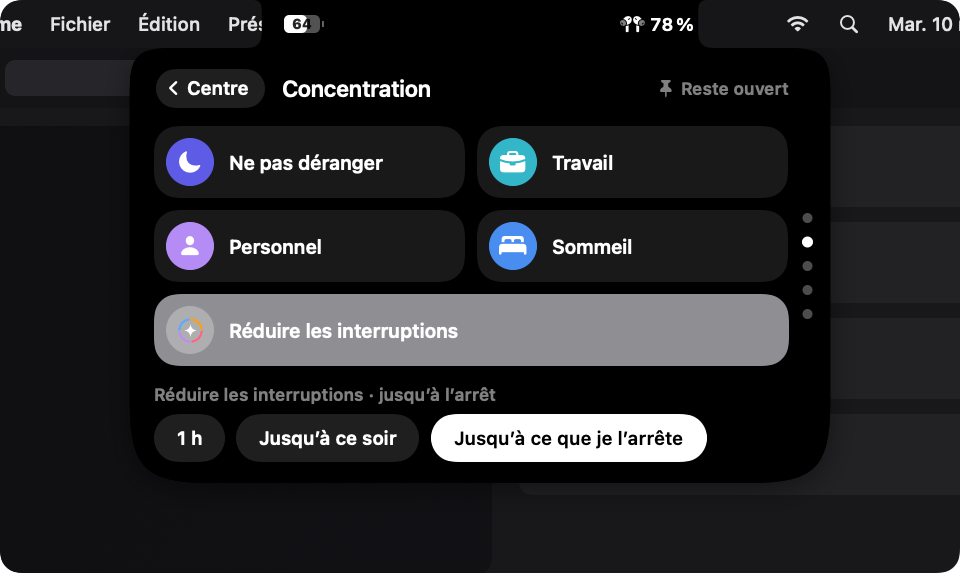
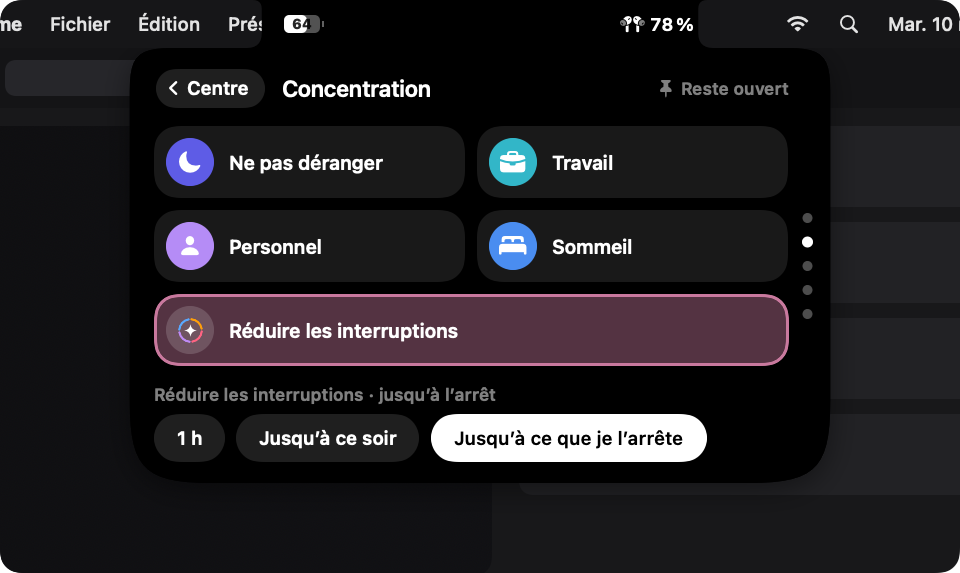
Concentration : le même style de sélection pour les cinq modes (Réduire n'est plus une plaque grise)
- « Réduire les interruptions » prend une teinte sobre tirée du rose de son icône (0xC9799E), lisible sur le noir, distincte du violet
  de Personnel ; le gris de la maquette faisait une plaque claire pleine.
- Choisi ou allumé : chaque mode teinté et cerclé de sa couleur (allumé un peu plus fort), comme Travail sur 33c ; plus de plaque pleine.
- Rendu 33k régénéré (seul rendu qui change).

Changed region(s): [[0.1562, 0.5044, 0.8438, 0.6527]]

diff --git a/Sources/Dictee/IlotConcentration.swift b/Sources/Dictee/IlotConcentration.swift
@@ -634,7 +634,8 @@ struct CarteModesConcentration: View {
     }
 }
 
-/// Un bouton de mode (48 pt) : l'icône dans un rond de sa couleur, le nom. Choisi : teinté et cerclé de sa couleur ; allumé : plein.
+/// Un bouton de mode (48 pt) : l'icône dans un rond de sa couleur, le nom. Choisi ou allumé : le même style pour les cinq modes, teinté
+/// et cerclé de sa couleur (allumé, un peu plus fort) ; jamais une plaque pleine (le gris de « Réduire » en faisait une plaque claire).
 struct BoutonModeConcentration: View {
     var mode: ModeConcentration
     var choisi: Bool
@@ -645,7 +646,7 @@ struct BoutonModeConcentration: View {
     var body: some View {
         Button(action: action) {
             HStack(spacing: 10) {
-                Circle().fill(allume ? Color.white.opacity(0.28) : (mode.largeurPleine ? Color.white.opacity(0.16) : mode.teinte))
+                Circle().fill(mode.largeurPleine ? Color.white.opacity(0.16) : mode.teinte)
                     .overlay { GlypheConcentration(mode: mode, taille: 18) }
                     .frame(width: 32, height: 32)
                 Text(mode.nom).font(.system(size: 13, weight: .semibold)).tracking(-0.1).foregroundStyle(.white).lineLimit(1)
@@ -654,8 +655,8 @@ struct BoutonModeConcentration: View {
             .padding(.leading, 8).padding(.trailing, 12)
             .frame(maxWidth: .infinity, maxHeight: .infinity)
             .background(RoundedRectangle(cornerRadius: 16, style: .continuous).fill(fond))
-            .overlay { if choisi && !allume { RoundedRectangle(cornerRadius: 16, style: .continuous).strokeBorder(mode.teinte, lineWidth: 1.5) } }
-            .brightness(survol && !allume ? 0.06 : 0)
+            .overlay { if choisi || allume { RoundedRectangle(cornerRadius: 16, style: .continuous).strokeBorder(mode.teinte, lineWidth: allume ? 2 : 1.5) } }
+            .brightness(survol ? 0.06 : 0)
             .contentShape(RoundedRectangle(cornerRadius: 16, style: .continuous))
         }
         .buttonStyle(AppuiIlot(echelle: 0.97))
@@ -663,7 +664,7 @@ struct BoutonModeConcentration: View {
         .accessibilityLabel(mode.nom)
         .accessibilityValue(allume ? "allumé" : (choisi ? "choisi" : ""))
     }
-    private var fond: Color { allume ? mode.teinte : (choisi ? mode.teinte.opacity(0.3) : Color.white.opacity(0.1)) }
+    private var fond: Color { allume ? mode.teinte.opacity(0.42) : (choisi ? mode.teinte.opacity(0.3) : Color.white.opacity(0.1)) }
 }
 
 /// Une durée (32 pt) : grise ; éteinte (aucun mode choisi) à 40 % ; celle du mode allumé, blanche.

diff --git a/Sources/DicteeCore/ConcentrationIlot.swift b/Sources/DicteeCore/ConcentrationIlot.swift
@@ -41,7 +41,9 @@ public enum ModeConcentration: String, CaseIterable, Codable, Sendable {
         case .travail: return 0x32B6C8
         case .personnel: return 0xB58CF6
         case .sommeil: return 0x4A8DF0
-        case .reduire: return 0x8E8E93
+        // l'icône est un anneau de quatre couleurs : la sélection prend une teinte sobre tirée de son rose (lisible sur le noir, distincte
+        // du violet de Personnel) ; le gris de la maquette faisait une plaque claire, pas une sélection
+        case .reduire: return 0xC9799E
         }
     }
     /// Le symbole SF du mode ; nil : « Réduire les interruptions » a un glyphe dessiné (l'anneau de couleurs et l'étincelle, maquette).
